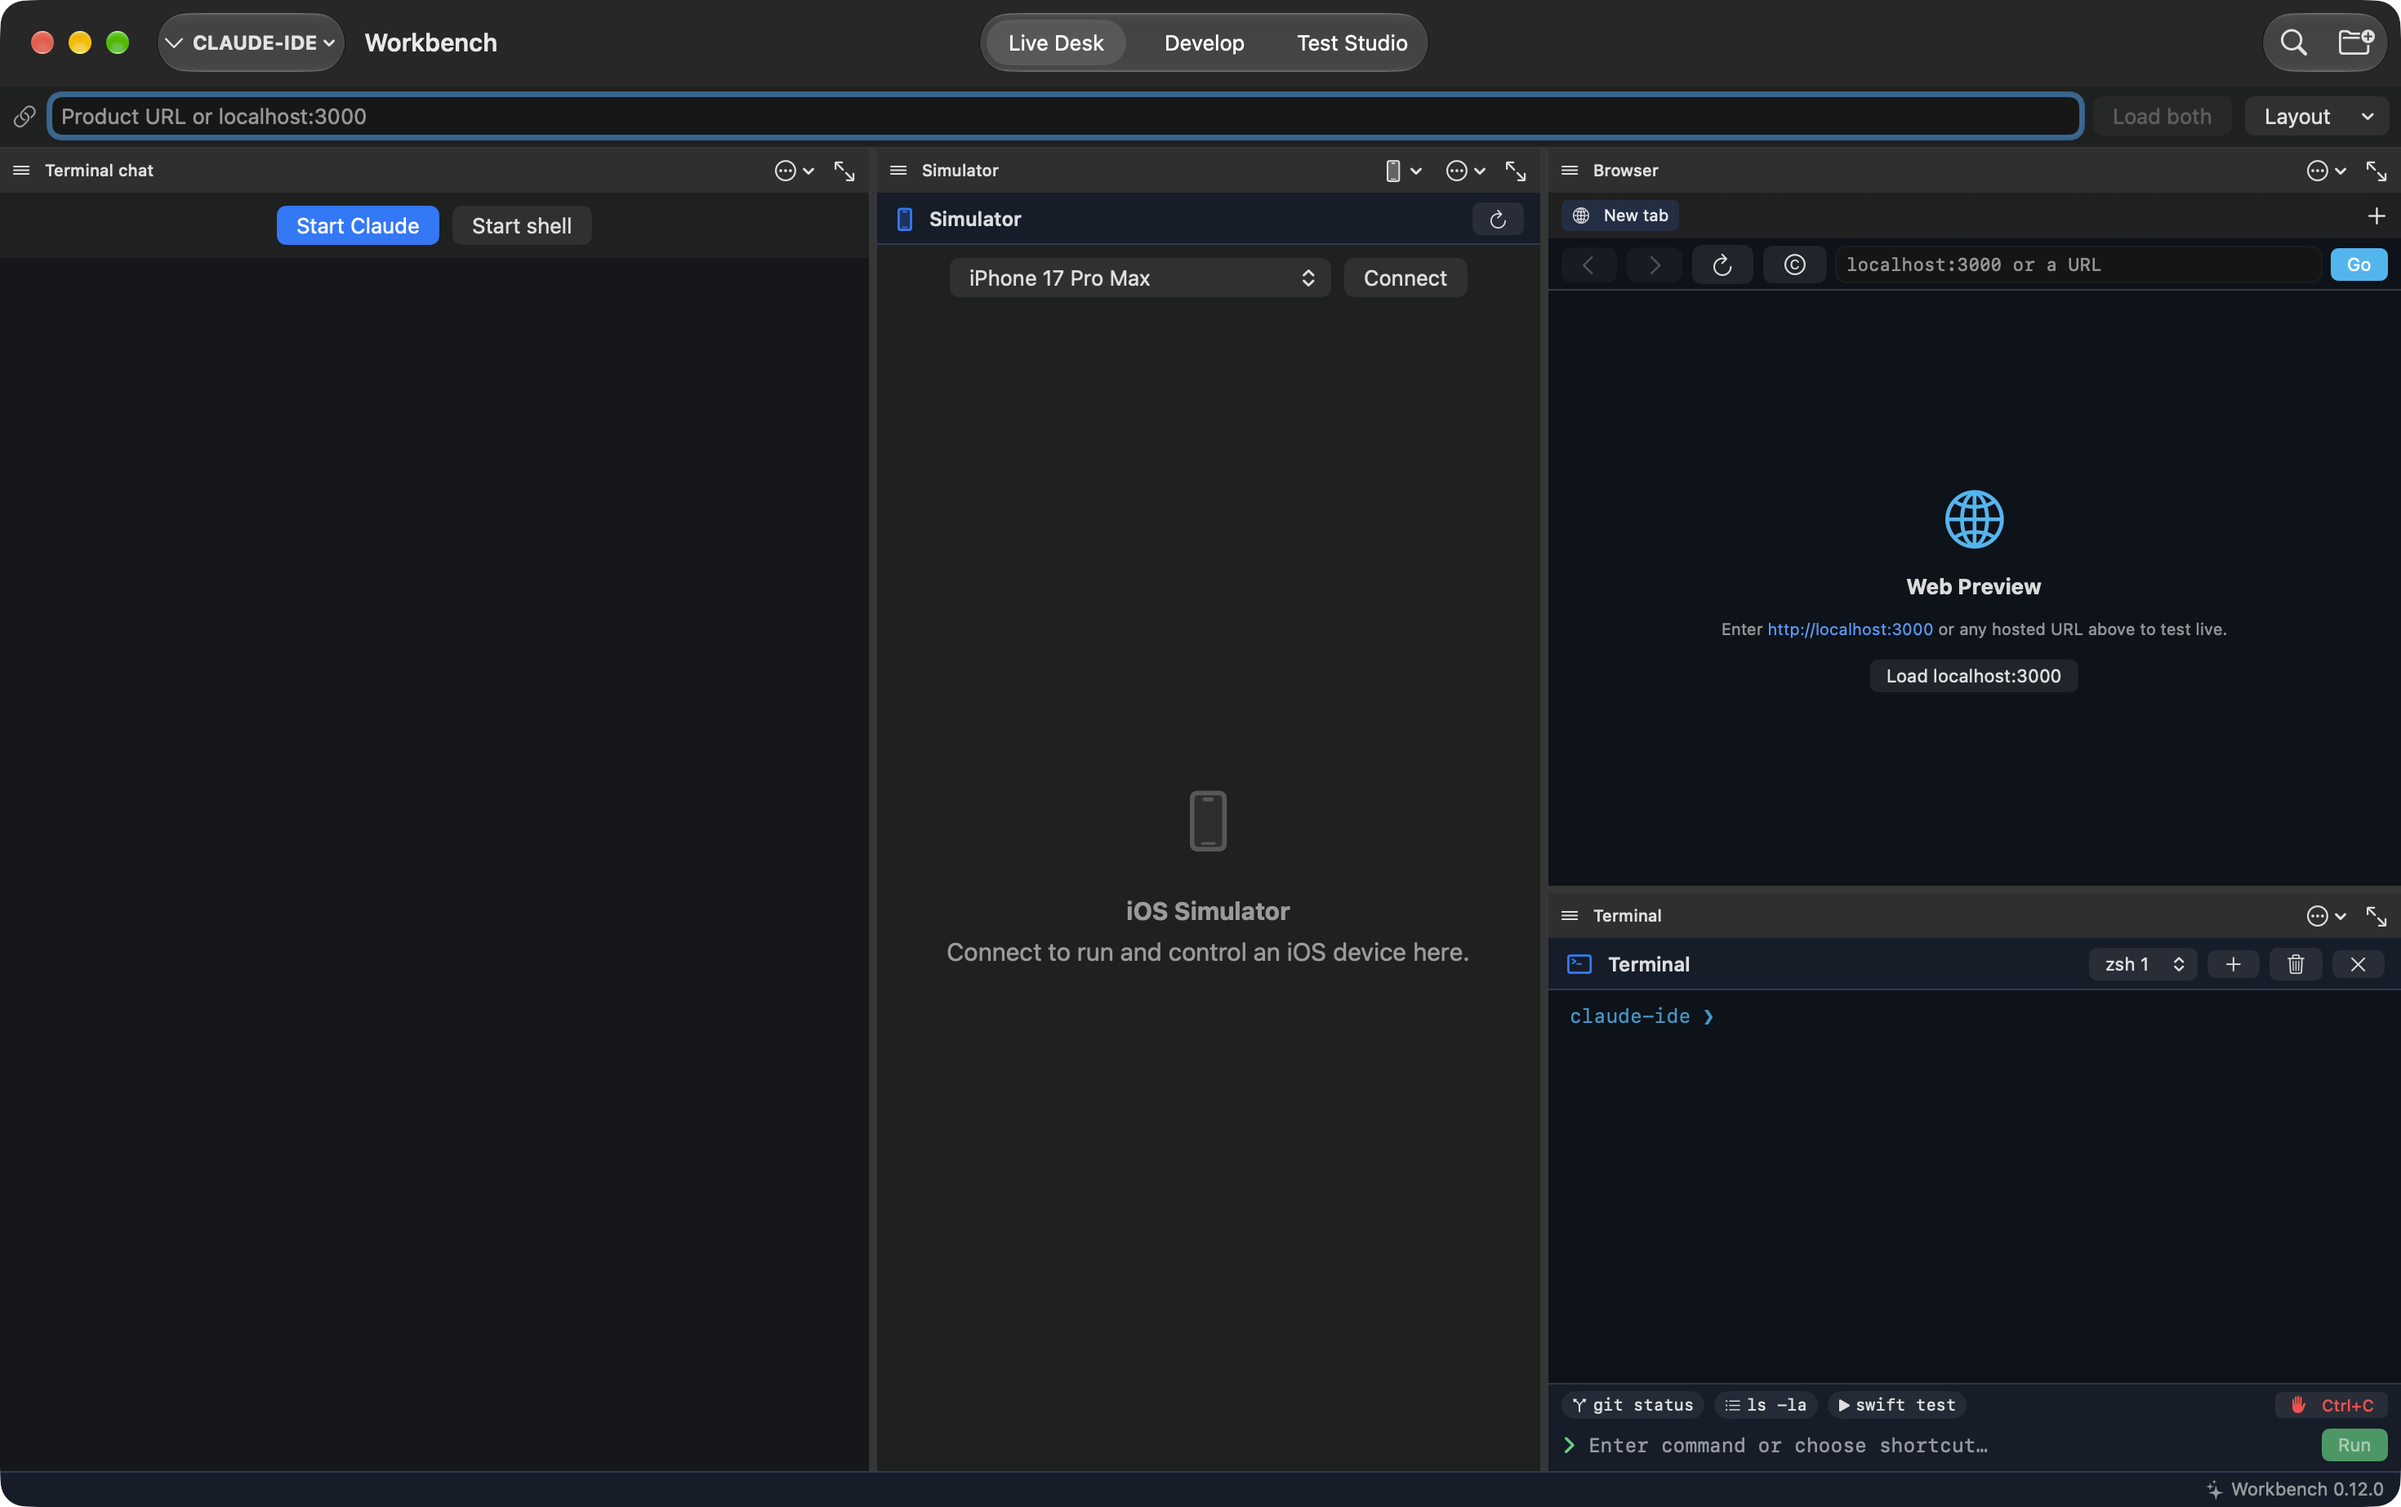
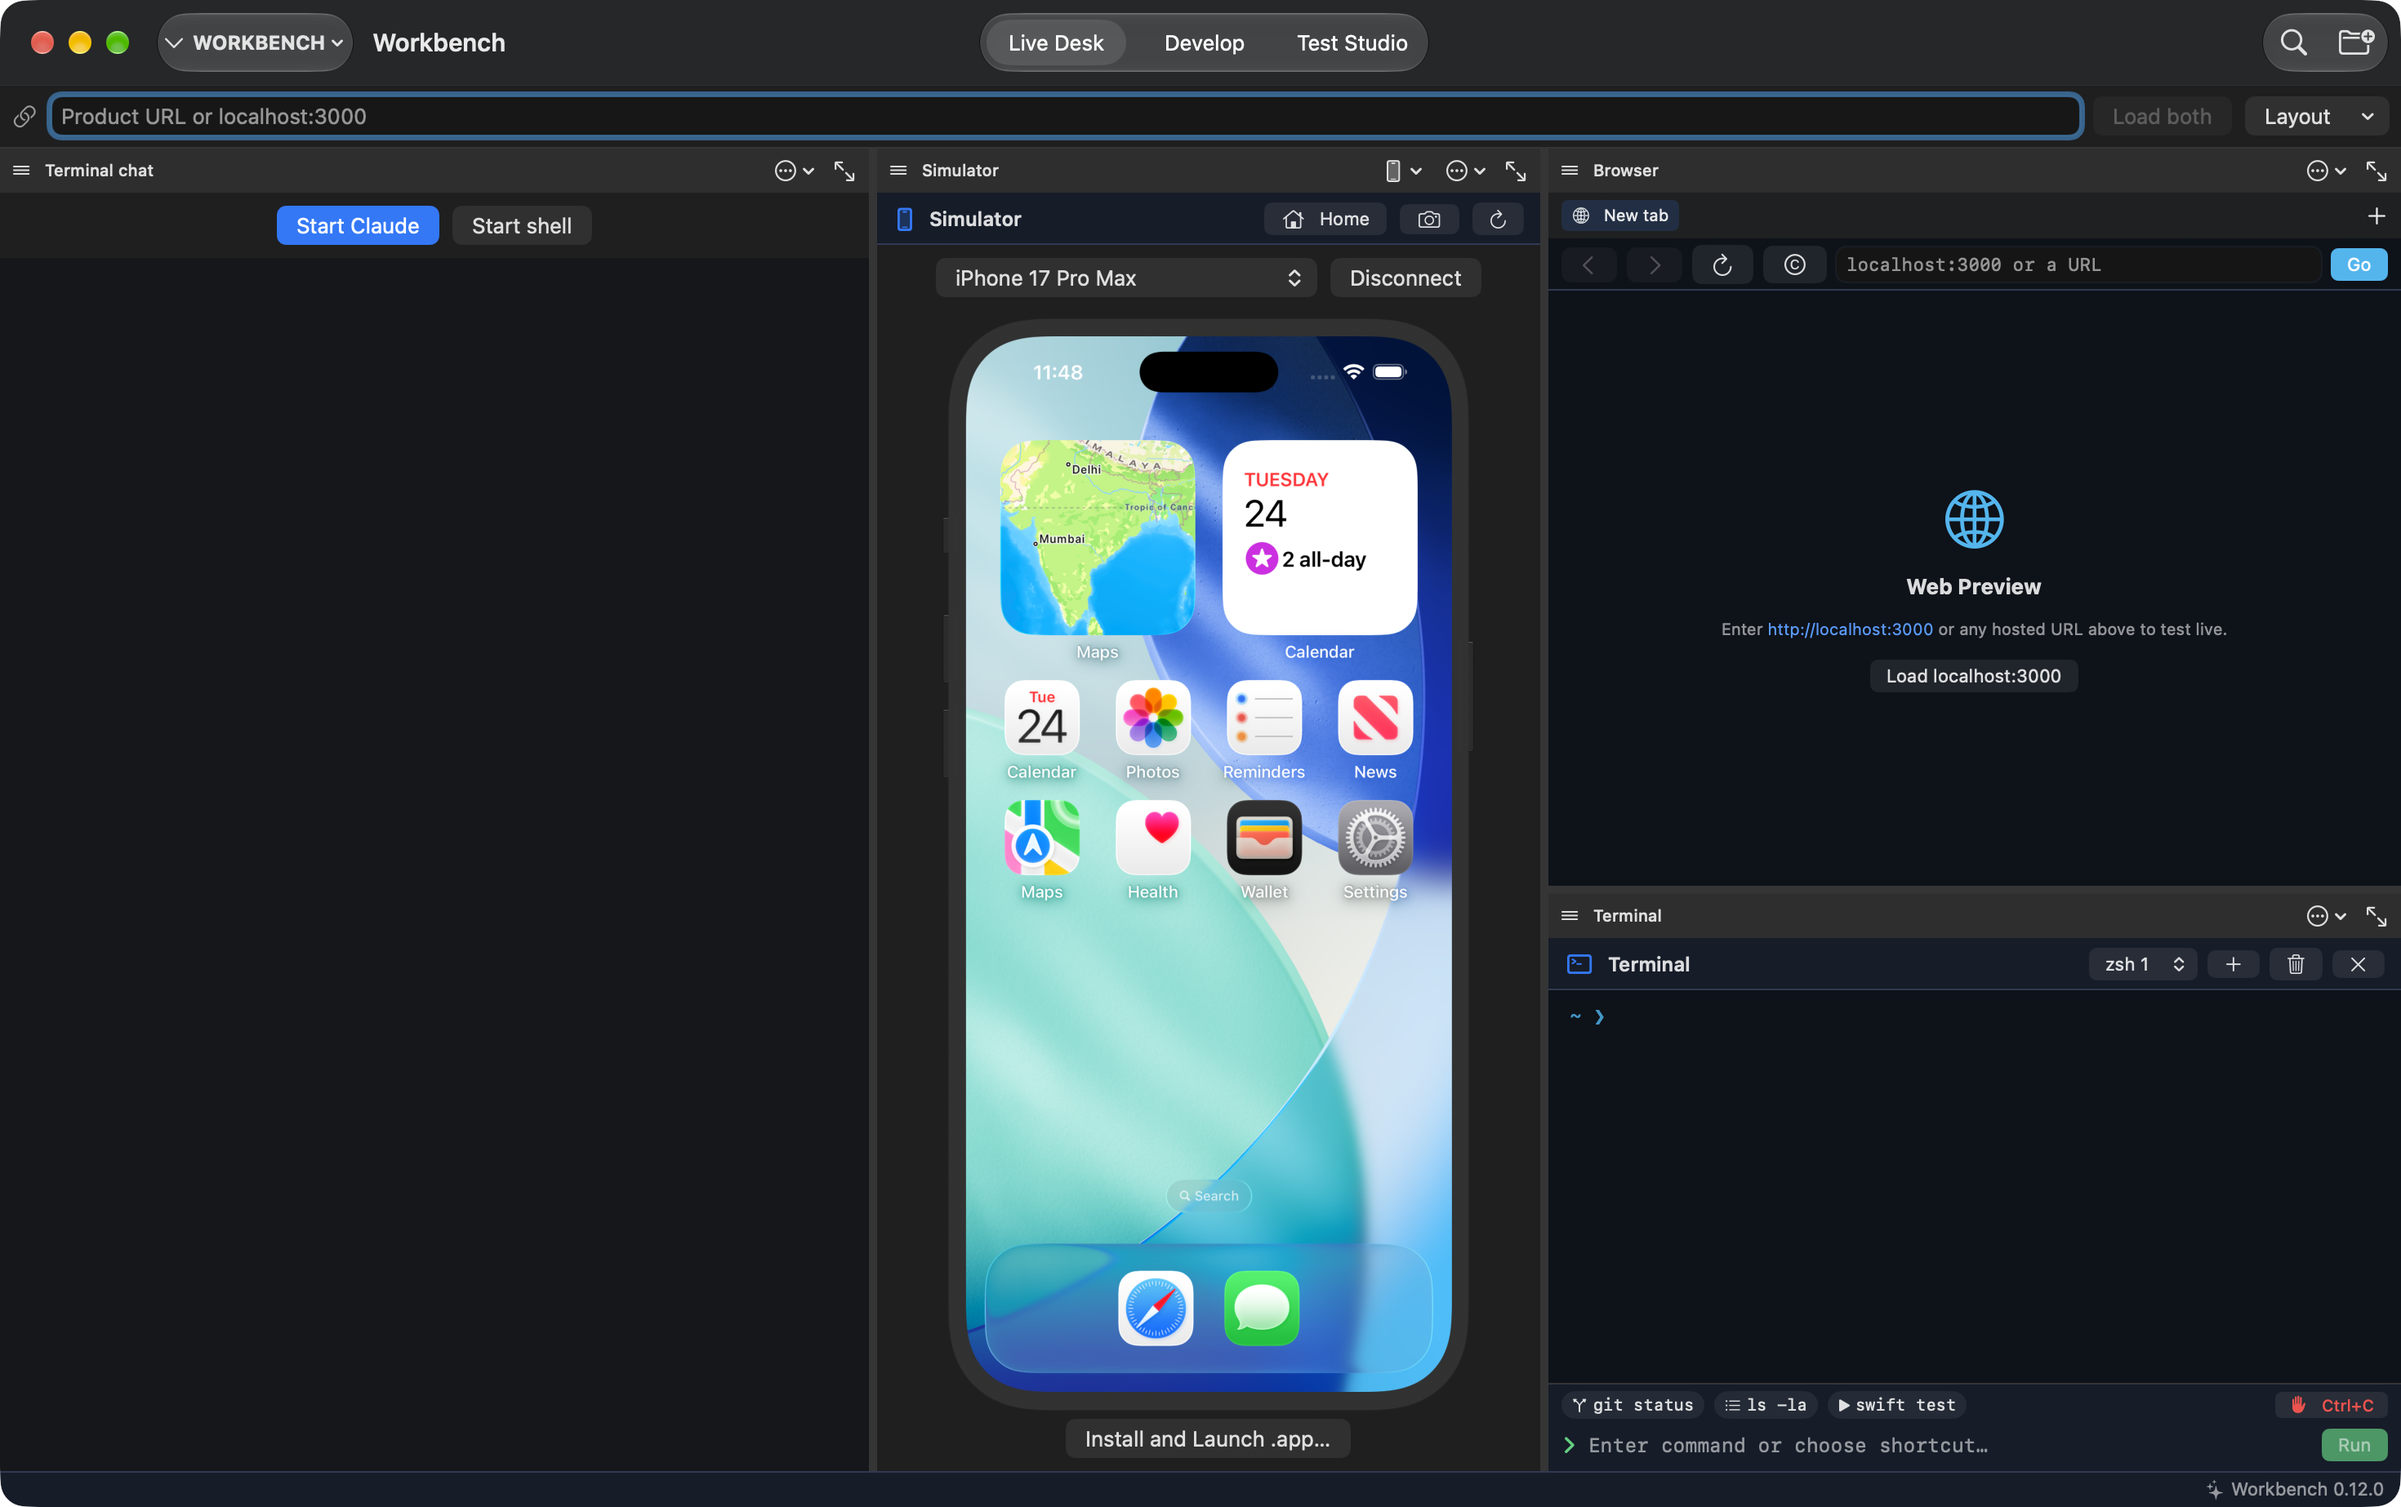
ci: Replace build workflow with lint checks; refresh screenshot

diff --git a/CHANGELOG.md b/CHANGELOG.md
@@ -15,7 +15,7 @@ First open-source release.
 - MIT license, README, contributing guide, security policy, and issue/PR templates.
 - App icon and an **About Workbench** panel showing the version and license.
 - **Help** menu links to the repository and issue tracker.
-- CI that builds the app on every push and pull request (`scripts/check.sh`).
+- A **Checks** workflow on every push and pull request: shellcheck, forbidden files, hidden Unicode, VERSION/CHANGELOG, and app invariants (`scripts/lint.sh`).
 - Claude agent pane: a real model picker (CLI default, Fable, Opus, Sonnet, Haiku) passed to the CLI.
 - Claude agent pane: follow-up prompts continue the same conversation; **New conversation** starts fresh.
 - Claude agent pane: a **Stop** button, and live activity rows for files read, edits, and commands.

diff --git a/README.md b/README.md
@@ -10,7 +10,7 @@
 </p>
 
 <p align="center">
-  <a href="https://github.com/aradhyadengree/workbench/actions/workflows/ci.yml"><img src="https://github.com/aradhyadengree/workbench/actions/workflows/ci.yml/badge.svg" alt="CI"></a>
+  <a href="https://github.com/aradhyadengree/workbench/actions/workflows/checks.yml"><img src="https://github.com/aradhyadengree/workbench/actions/workflows/checks.yml/badge.svg" alt="Checks"></a>
   <a href="LICENSE"><img src="https://img.shields.io/badge/license-MIT-blue.svg" alt="MIT License"></a>
   <img src="https://img.shields.io/badge/macOS-14%2B-black?logo=apple" alt="macOS 14+">
   <img src="https://img.shields.io/badge/Swift-5.9%2B-F05138?logo=swift&logoColor=white" alt="Swift 5.9+">

diff --git a/AGENTS.md b/AGENTS.md
@@ -10,7 +10,8 @@ terminal chat, an embedded iOS Simulator display, a browser, and shells, plus a 
 |---|---|
 | Dev run | `swift run` |
 | Build the .app | `./scripts/build-app.sh` → `./Workbench.app` (gitignored) |
-| The gate (CI runs exactly this) | `./scripts/check.sh` |
+| Fast checks (all CI runs, on Linux) | `./scripts/lint.sh` |
+| Full local gate (lint + build + .app) | `./scripts/check.sh` |
 | Release artifacts | `./scripts/package-release.sh` → `dist/` (universal DMG + zip + SHA256SUMS) |
 
 There are no unit tests yet. Verify UI changes by building and running the app.

diff --git a/CONTRIBUTING.md b/CONTRIBUTING.md
@@ -11,7 +11,7 @@ git clone https://github.com/aradhyadengree/workbench.git
 cd workbench
 swift run                 # quick dev loop
 ./scripts/build-app.sh    # full Workbench.app with icon and bundled resources
-./scripts/check.sh        # what CI runs; must pass before a PR
+./scripts/check.sh        # lint + build; must pass before a PR (CI runs only the lint part)
 ```
 
 Opening `Package.swift` in Xcode works too.
